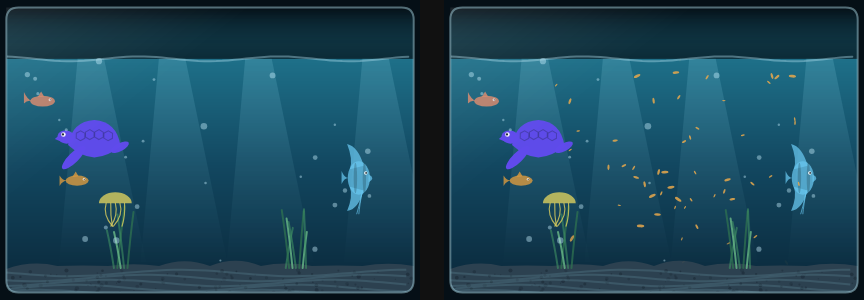
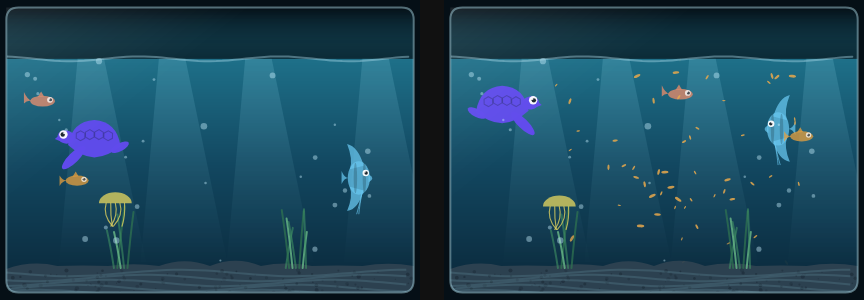
feat: give the creatures a face, and let them notice the food
Reef is a collectible game, not an aquarium simulator, and the creatures were
reading as accurate silhouettes rather than as things worth collecting.

All nine species draw their eye through one helper, so character is decided
there rather than in nine separate outlines. It now carries a catchlight, a
slow gaze drift, and a blink — each creature on its own clock, so a tank never
blinks in unison. Everything stays a pure function of time and seed, because
the server draws share cards with the same code and a creature that blinked
differently there would not be the same creature.

The eye is also oversized, and additively rather than proportionally. A guppy
in a phone-sized tank had a two-pixel eye, which is a dot with no expression,
while a whale's was already big enough; a flat boost fixes the first without
inflating the second. Checked by rendering all ten species and a real
phone-sized tank, not by reasoning about the numbers.

Feeding now moves the tank. Swimmers rise toward the surface where the flakes
are and speed up a little — toward the food, not pinned to it, because a tank
where every fish sticks to the glass reads as distress rather than as feeding
time. Crawlers and drifters ignore it: a shrimp does not race a guppy to the
top, and a jelly does not care.

diff --git a/src/lib/tank/fauna.ts b/src/lib/tank/fauna.ts
@@ -70,15 +70,57 @@ function tail(ctx: Ctx, len: number, spread: number, wag: number): void {
   ctx.fill();
 }
 
-function eye(ctx: Ctx, x: number, y: number, r: number): void {
-  ctx.fillStyle = 'rgba(255,255,255,.93)';
+/**
+ * One eye, and most of the character in the tank.
+ *
+ * Every species draws through here, so this is where "collectible" is decided
+ * rather than in nine separate silhouettes. Three things do the work: it is
+ * larger than anatomy would suggest, it carries a catchlight, and it blinks.
+ *
+ * All of it stays a pure function of `time` and `seed` — no state, no
+ * Math.random() — because the server draws share cards with the same code and
+ * a creature that blinked differently there would not be the same creature.
+ */
+function eye(ctx: Ctx, x: number, y: number, r: number, time = 0, seed = 0): void {
+  // Deliberately oversized, and additively rather than proportionally: a
+  // guppy in a phone-sized tank has a two-pixel eye, which is a dot with no
+  // expression, while a whale's is already large enough. A flat boost fixes
+  // the first without inflating the second.
+  const R = Math.max(2.4, r * 1.15 + 1.6);
+
+  // Each creature blinks on its own clock, so a tank never blinks in unison.
+  const period = 4.1 + (seed % 9) * 0.53;
+  const phase = (time + seed * 0.41) % period;
+  const CLOSE = 0.16;
+  const lid = phase < CLOSE ? 1 - Math.abs(phase - CLOSE / 2) / (CLOSE / 2) : 0;
+  const open = 1 - lid * 0.9;
+
+  // Looking around: a slow drift, far too small to notice directly and very
+  // noticeable by its absence.
+  const gaze = Math.sin(time * 0.47 + seed) * R * 0.16;
+
+  ctx.save();
+  ctx.translate(x, y);
+  ctx.scale(1, Math.max(0.06, open));
+
+  ctx.fillStyle = 'rgba(255,255,255,.95)';
   ctx.beginPath();
-  ctx.arc(x, y, Math.max(1.3, r), 0, Math.PI * 2);
+  ctx.arc(0, 0, R, 0, Math.PI * 2);
   ctx.fill();
-  ctx.fillStyle = 'rgba(9,20,28,.9)';
+
+  ctx.fillStyle = 'rgba(9,20,28,.92)';
   ctx.beginPath();
-  ctx.arc(x + r * 0.22, y, Math.max(0.7, r * 0.5), 0, Math.PI * 2);
+  ctx.arc(gaze + R * 0.16, 0, Math.max(0.9, R * 0.52), 0, Math.PI * 2);
   ctx.fill();
+
+  // The catchlight. Up and to the left, matching the surface light everything
+  // else in the tank is lit by.
+  ctx.fillStyle = 'rgba(255,255,255,.85)';
+  ctx.beginPath();
+  ctx.arc(gaze - R * 0.18, -R * 0.3, Math.max(0.5, R * 0.24), 0, Math.PI * 2);
+  ctx.fill();
+
+  ctx.restore();
 }
 
 interface Args {
@@ -109,7 +151,7 @@ function guppy({ ctx, L, colour, time, rate, seed }: Args): void {
   ctx.lineTo(-L * 0.2, -H * 0.38);
   ctx.closePath();
   ctx.fill();
-  eye(ctx, L * 0.3, -H * 0.12, L * 0.055);
+  eye(ctx, L * 0.3, -H * 0.12, L * 0.055, time, seed);
 }
 
 function angel({ ctx, L, colour, time, rate, seed }: Args): void {
@@ -157,7 +199,7 @@ function angel({ ctx, L, colour, time, rate, seed }: Args): void {
     ctx.fill();
   });
   ctx.globalAlpha = 1;
-  eye(ctx, L * 0.2, -H * 0.14, L * 0.05);
+  eye(ctx, L * 0.2, -H * 0.14, L * 0.05, time, seed);
 }
 
 function jelly({ ctx, L, colour, time, rate, seed }: Args): void {
@@ -229,7 +271,7 @@ function shrimp({ ctx, L, colour, time, rate, seed }: Args): void {
     ctx.quadraticCurveTo(L * 0.7, -L * a, L * 1.0, -L * (a * 0.4) + i * L * 0.1);
     ctx.stroke();
   });
-  eye(ctx, L * 0.32, -L * 0.09, L * 0.055);
+  eye(ctx, L * 0.32, -L * 0.09, L * 0.055, time, seed);
 }
 
 function sleek({ ctx, L, colour, time, rate, seed }: Args, dorsal: number, snout: number): void {
@@ -282,7 +324,7 @@ function sleek({ ctx, L, colour, time, rate, seed }: Args, dorsal: number, snout
     ctx.quadraticCurveTo(gx - L * 0.02, 0, gx, H * 0.2);
     ctx.stroke();
   }
-  eye(ctx, L * 0.36, -H * 0.18, L * 0.042);
+  eye(ctx, L * 0.36, -H * 0.18, L * 0.042, time, seed);
 }
 
 function lionfish(a: Args): void {
@@ -311,7 +353,7 @@ function lionfish(a: Args): void {
   ctx.beginPath();
   ctx.ellipse(0, 0, L * 0.4, H * 0.5, 0, 0, Math.PI * 2);
   ctx.fill();
-  eye(ctx, L * 0.24, -H * 0.14, L * 0.05);
+  eye(ctx, L * 0.24, -H * 0.14, L * 0.05, time, seed);
 }
 
 function ray({ ctx, L, colour, time, rate, seed }: Args): void {
@@ -344,7 +386,7 @@ function ray({ ctx, L, colour, time, rate, seed }: Args): void {
   ctx.moveTo(-L * 0.78, flap * span * 0.19);
   ctx.quadraticCurveTo(-L * 0.95, flap * span * 0.24, -L * 1.06, flap * span * 0.3);
   ctx.stroke();
-  eye(ctx, L * 0.3, -span * 0.16, L * 0.04);
+  eye(ctx, L * 0.3, -span * 0.16, L * 0.04, time, seed);
 }
 
 function octopus({ ctx, L, colour, time, rate, seed }: Args): void {
@@ -363,7 +405,7 @@ function octopus({ ctx, L, colour, time, rate, seed }: Args): void {
     ctx.quadraticCurveTo(spread - L * 0.1 + curl, L * 0.48, spread - L * 0.34 + curl, L * 0.66);
     ctx.stroke();
   }
-  eye(ctx, L * 0.26, -L * 0.16, L * 0.06);
+  eye(ctx, L * 0.26, -L * 0.16, L * 0.06, time, seed);
 }
 
 function turtle({ ctx, L, colour, time, rate, seed }: Args): void {
@@ -429,7 +471,7 @@ function turtle({ ctx, L, colour, time, rate, seed }: Args): void {
   ctx.lineTo(L * 0.5, -L * 0.01);
   ctx.closePath();
   ctx.fill();
-  eye(ctx, L * 0.47, -L * 0.12, L * 0.035);
+  eye(ctx, L * 0.47, -L * 0.12, L * 0.035, time, seed);
 }
 
 function whale({ ctx, L, colour, time, rate, seed }: Args): void {
@@ -492,7 +534,7 @@ function whale({ ctx, L, colour, time, rate, seed }: Args): void {
   ctx.quadraticCurveTo(L * 0.3, H * 0.26, L * 0.08, H * 0.28);
   ctx.stroke();
 
-  eye(ctx, L * 0.33, -H * 0.06, L * 0.026);
+  eye(ctx, L * 0.33, -H * 0.06, L * 0.026, time, seed);
 }
 
 type Painter = (a: Args) => void;

diff --git a/src/lib/tank/motion.ts b/src/lib/tank/motion.ts
@@ -56,12 +56,18 @@ export const STILL_TIME = 11.4;
  * decelerates into the glass, turns, and accelerates away — which is what an
  * actual fish does. A triangle wave snaps direction at full speed and reads
  * as a bouncing sprite.
+ *
+ * `interest` is 0..1 and says how much food is in the water. It pulls swimmers
+ * toward the surface, where the flakes are, and speeds them up a little. It
+ * does not move crawlers or drifters — a shrimp does not race a guppy to the
+ * top, and a jelly does not care.
  */
 export function placeAt(
   inhabitant: Inhabitant,
   tank: TankRect,
   time: number,
   index: number,
+  interest = 0,
 ): Placement {
   const r = rng(inhabitant.seed + index * 7919);
   const style = STYLE[inhabitant.species];
@@ -69,7 +75,9 @@ export function placeAt(
 
   const phase = r() * Math.PI * 2;
   // Nearer things read as faster even at the same real speed.
-  const speed = SPEED[inhabitant.species] * (0.8 + r() * 0.4) * (0.7 + depth * 0.45);
+  const eager = Math.min(1, Math.max(0, interest));
+  const speed =
+    SPEED[inhabitant.species] * (0.8 + r() * 0.4) * (0.7 + depth * 0.45) * (1 + eager * 0.45);
   const swimmable = tank.groundY - tank.surfaceY;
 
   if (style === 'crawl') {
@@ -104,9 +112,14 @@ export function placeAt(
   const band = style === 'glide' ? 0.16 + r() * 0.5 : 0.1 + r() * 0.66;
   const bob = Math.sin(time * (style === 'glide' ? 0.3 : 0.75) + phase) * (style === 'glide' ? 0.05 : 0.035);
 
+  // Toward the food, not all the way to it: a tank where every fish pins
+  // itself to the surface reads as distress, not as feeding time.
+  const rise = eager * 0.55;
+  const level = band * (1 - rise) + 0.1 * rise;
+
   return {
     x: tank.x + tank.w * (inset + u * (1 - inset * 2)),
-    y: tank.surfaceY + swimmable * Math.min(0.92, Math.max(0.06, band + bob)),
+    y: tank.surfaceY + swimmable * Math.min(0.92, Math.max(0.06, level + bob)),
     dir: Math.cos(angle) >= 0 ? 1 : -1,
     depth,
   };

diff --git a/src/lib/tank/render.ts b/src/lib/tank/render.ts
@@ -55,6 +55,12 @@ export function renderTank(ctx: CanvasRenderingContext2D, options: RenderOptions
   drawSubstrate(ctx, tank, p);
   drawCaustics(ctx, tank, p, time);
 
+  // Feeding excites the tank for as long as the flakes are falling. Saturates
+  // quickly — the difference between one feeding and four is how much food is
+  // in the water, not how much more frantic the fish get.
+  const fed = Math.min(MAX_FEEDINGS_SHOWN, Math.max(0, Math.floor(options.feedings ?? 0)));
+  const interest = fed === 0 ? 0 : Math.min(1, 0.55 + (fed - 1) * 0.15);
+
   const flora = options.inhabitants.filter((i) => i.species === 'grass');
   const fauna = options.inhabitants.filter((i) => i.species !== 'grass');
 
@@ -66,7 +72,11 @@ export function renderTank(ctx: CanvasRenderingContext2D, options: RenderOptions
 
   // Far to near, so nearer things overlap what is behind them.
   const placed = fauna
-    .map((inhabitant, index) => ({ inhabitant, index, at: placeAt(inhabitant, tank, time, index) }))
+    .map((inhabitant, index) => ({
+      inhabitant,
+      index,
+      at: placeAt(inhabitant, tank, time, index, interest),
+    }))
     .sort((a, b) => a.at.depth - b.at.depth);
 
   placed.forEach(({ inhabitant, index, at }) => {
@@ -90,7 +100,6 @@ export function renderTank(ctx: CanvasRenderingContext2D, options: RenderOptions
   });
 
   ctx.globalAlpha = 1;
-  const fed = Math.min(MAX_FEEDINGS_SHOWN, Math.max(0, Math.floor(options.feedings ?? 0)));
   for (let i = 0; i < fed; i++) drawFlakes(ctx, tank, p, FLAKES[i]!, time + i * 3.1);
   drawBubbles(ctx, tank, p, BUBBLES, time);
   drawSurface(ctx, tank, p, time);

diff --git a/docs/DISCUSSION.md b/docs/DISCUSSION.md
@@ -1,4 +1,10 @@
-# Open discussions
+# Discussions
+
+**Settled and built on 26 Aug** — the address is the identity (handles dropped),
+browsers can stake and can feed a reef they reached by address, feeding is
+visible and grants a charge, and reefs have public pages at `/r/<address>` with
+an opt-out. What follows is kept because the reasoning still explains the shape
+of the code; the "Leaning" notes are what was chosen.
 
 Design questions that are not settled. Each one records what the code does
 *today* — verified, not remembered — before proposing anything, because most of
